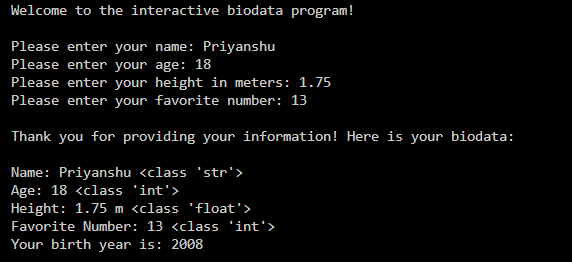
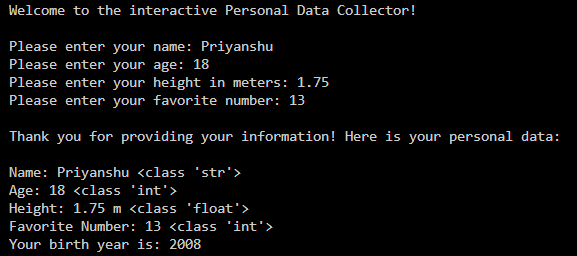
Fundamental Booster

diff --git a/README.md b/README.md
@@ -4,19 +4,19 @@
 A simple and interactive Python command-line program that collects user information, checks that the entered data is valid, and estimates the user’s birth year.
 
 ## Preview
-![Fundamental Booster](Screenshots/image1.png)
+![Fundamental Booster](Screenshots/Image1.png)
 
 ## Output
 
 ```
-Welcome to the interactive biodata program!
+Welcome to the interactive Personal Data Collector!
 
 Please enter your name: Priyanshu
 Please enter your age: 18
 Please enter your height in meters: 1.75
 Please enter your favorite number: 13
 
-Thank you for providing your information! Here is your biodata:
+Thank you for providing your information! Here is your personal data:
 
 Name: Priyanshu <class 'str'>
 Age: 18 <class 'int'>
@@ -24,5 +24,5 @@ Height: 1.75 m <class 'float'>
 Favorite Number: 13 <class 'int'>
 Your birth year is: 2008
 
-Thank you for using the interactive biodata program! Have a great day!
+Thank you for using the Personal Data Collector. Goodbye! Have a great day!
 ```
